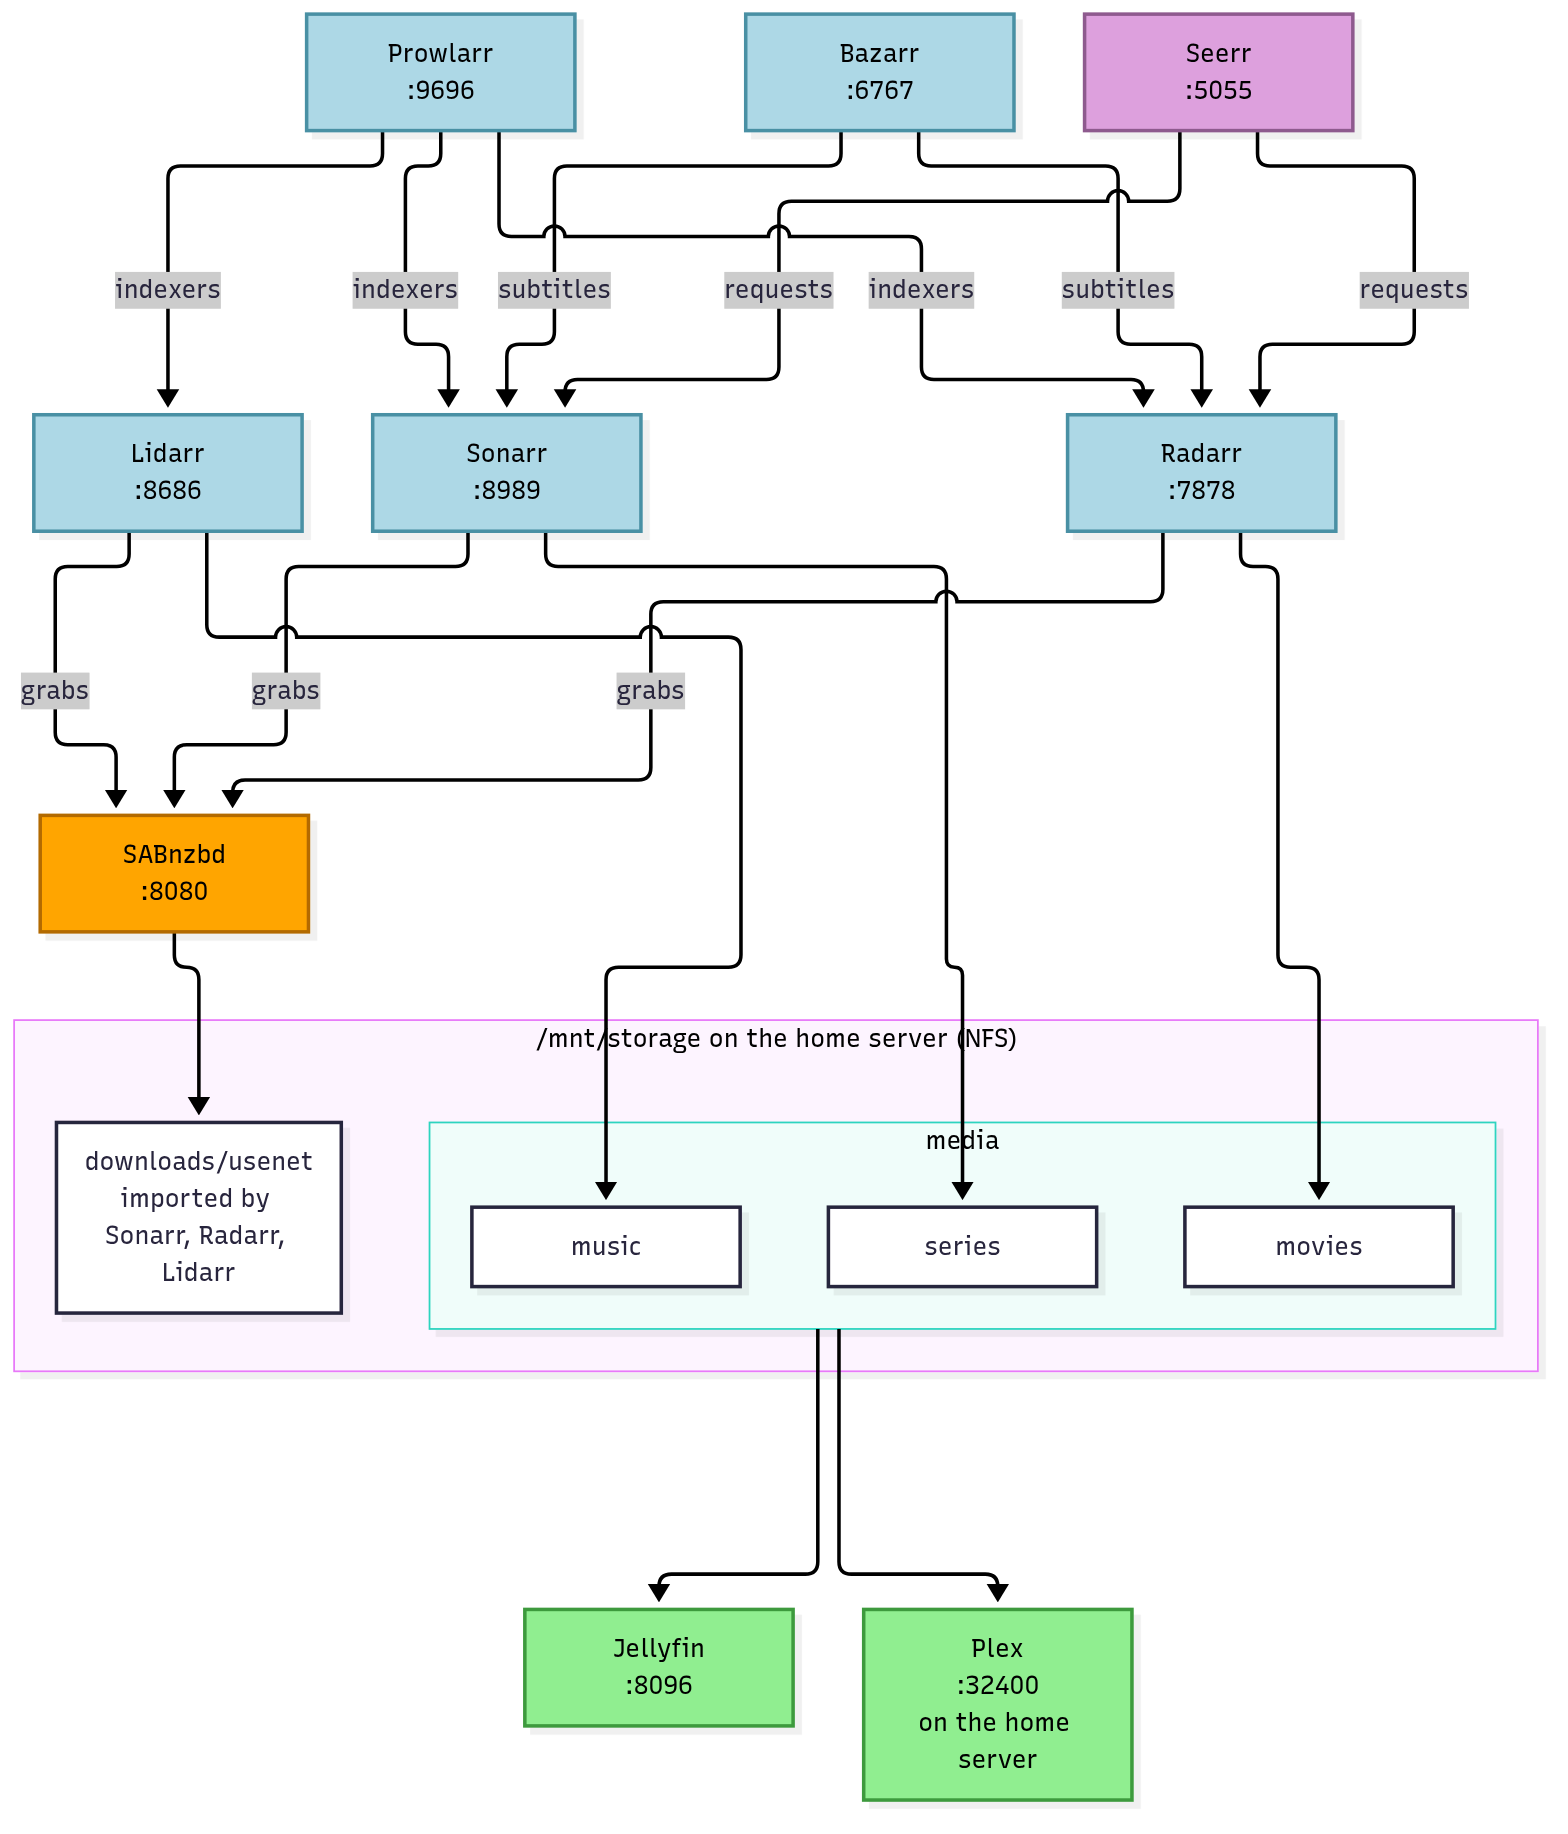
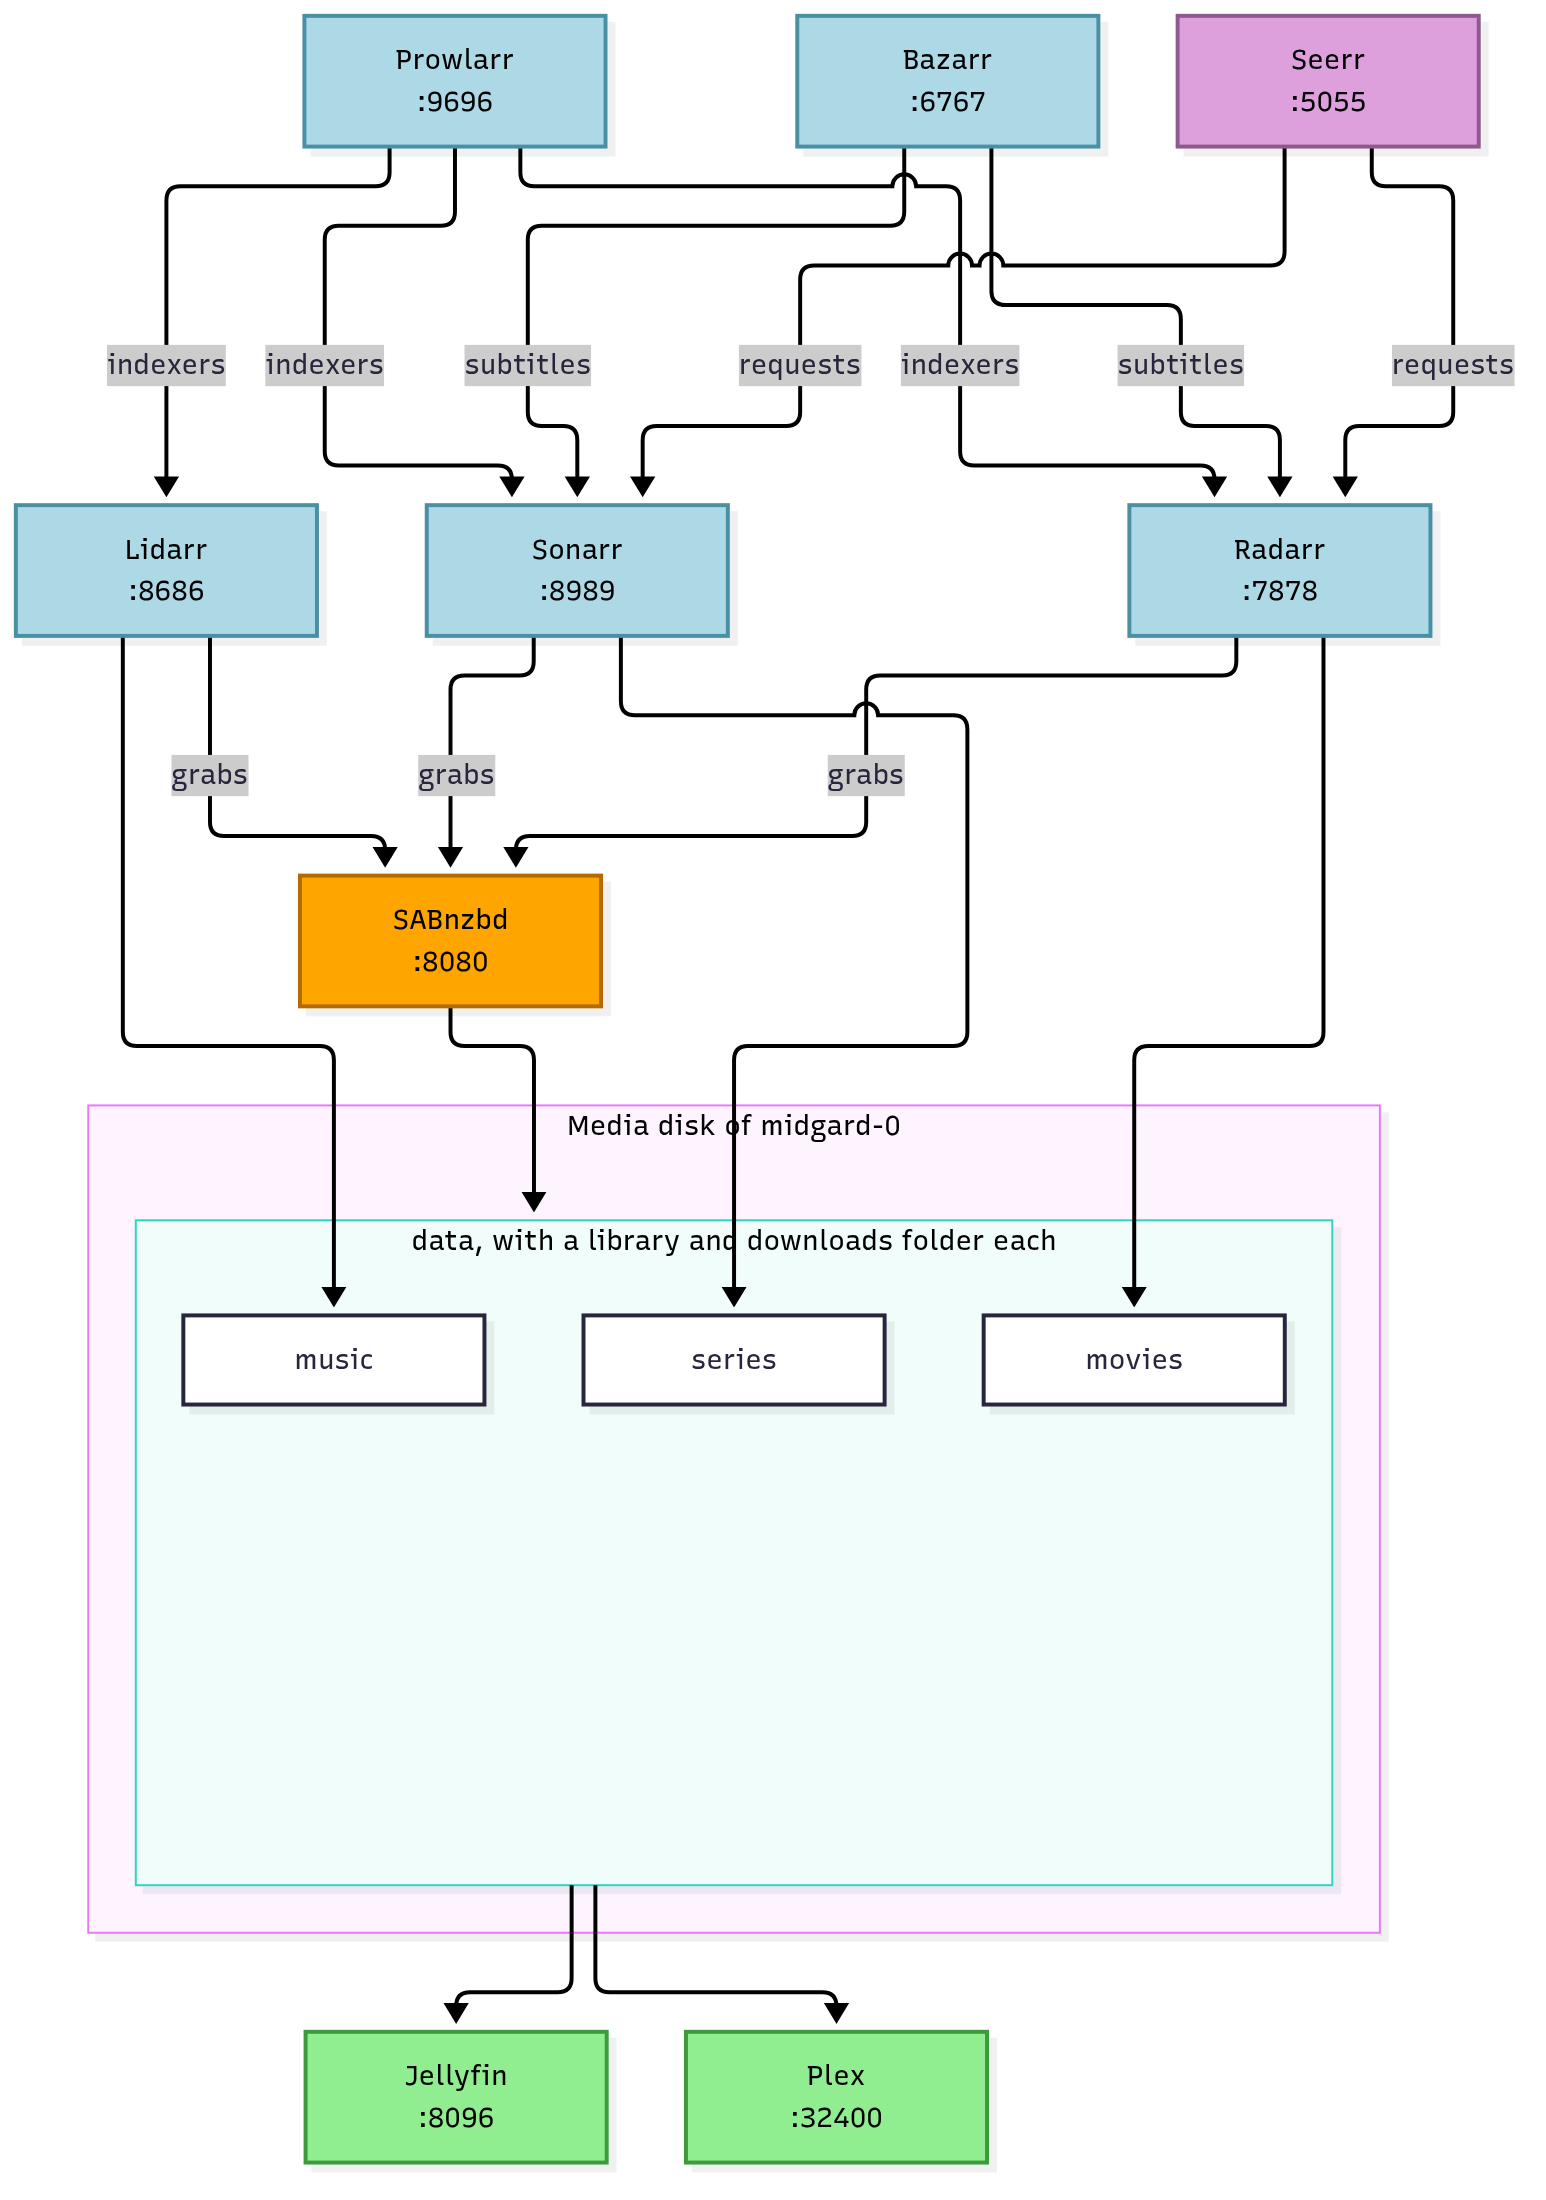
Update media docs

diff --git a/kubernetes/media-server/media-server/README.md b/kubernetes/media-server/media-server/README.md
@@ -8,7 +8,7 @@ static ZFS volume `media-server-backups` on `tank`, shared by the apps for their
 On the disk, `data/series`, `data/movies` and `data/music` each hold a `library` and a `downloads` folder. Sonarr,
 Radarr and Lidarr mount only their own of these at the same path under `/data`, so an import moves the file instead of
 copying it, and they can't see each other's media. SABnzbd mounts all of `data` at `/data` for the same reason. Its
-temporary folder `/data/incomplete`, completed folder `/data/complete` and the `downloads` folder per category are in
+folders `/data/downloads/incomplete` and `/data/downloads/complete` and the `downloads` folder per category are in
 its config, not in Terraform. Bazarr uses the paths of the `*arr` apps, and Plex and Jellyfin mount each `library`.
 
 The media disk has no redundancy until a second 16T disk gets a pool, the media is copied over, and this disk is wiped
